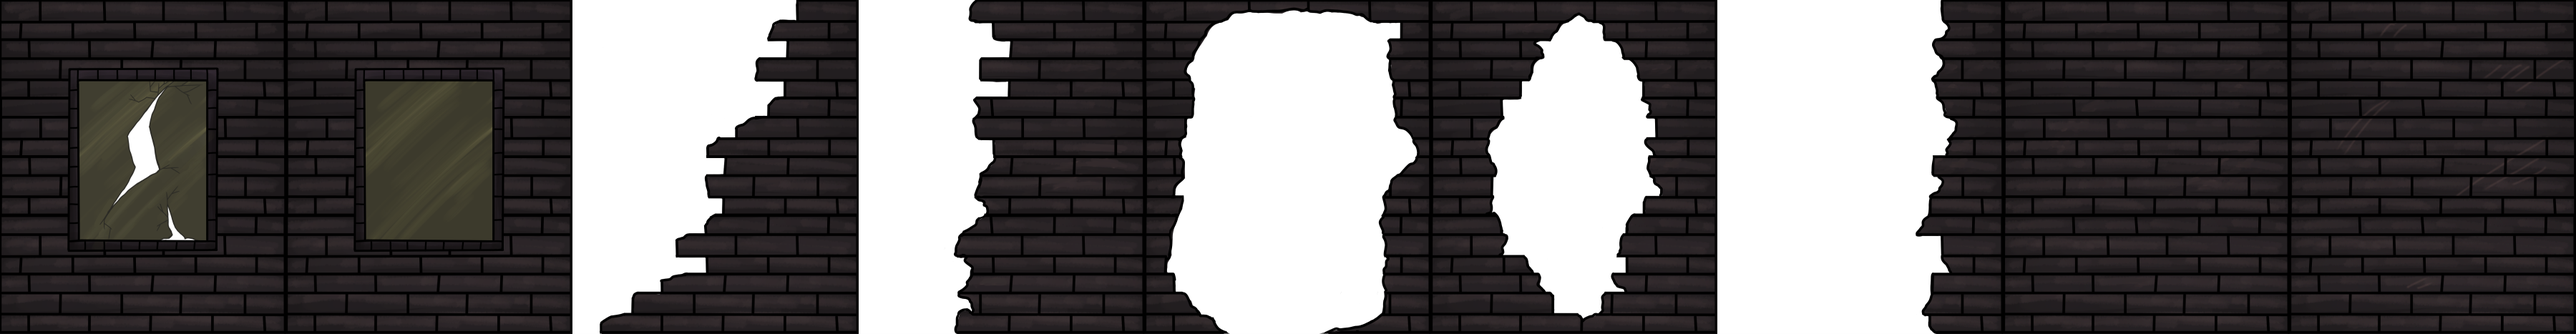
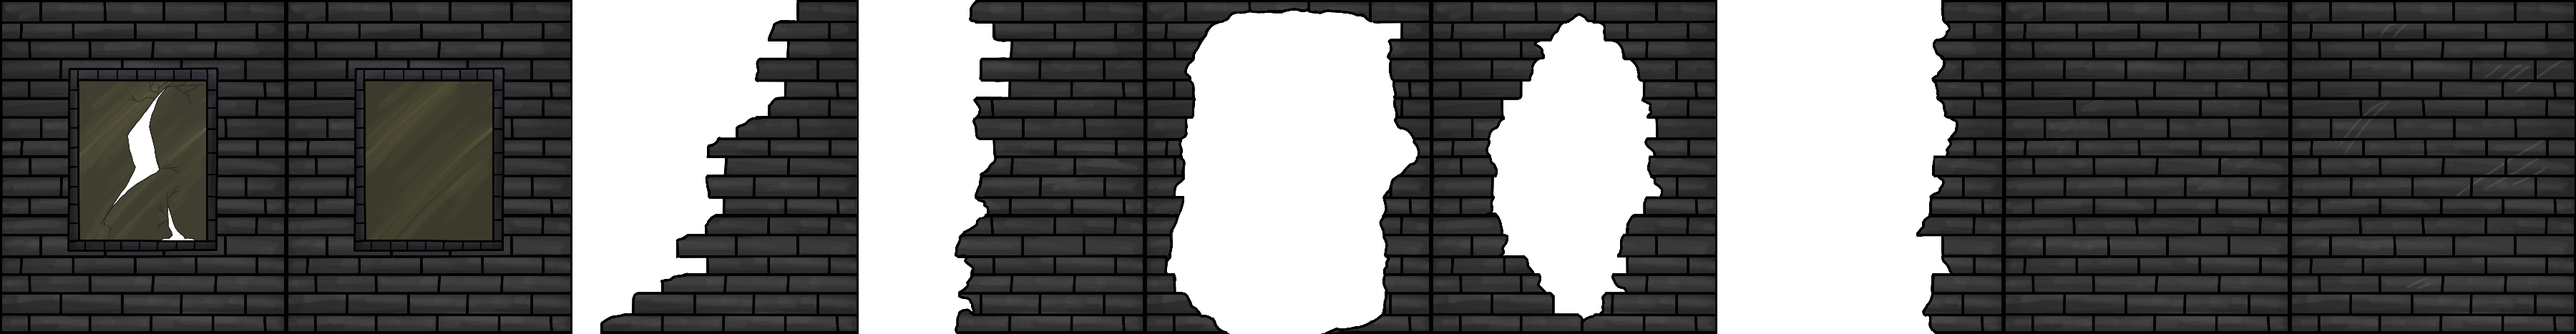
Added backgrounds for each level.

diff --git a/src/managers/BackgroundManager.java b/src/managers/BackgroundManager.java
@@ -42,17 +42,137 @@ public class BackgroundManager extends Manager{
     public void switchLevel(int level, Spawner spawner, Matrix3x3f viewport){
         getSprites().clear();
         getSprites().add(new Background(0, 0, new Vector2f(1,1), skyboxSpriteSheet));
+        //you can line up background walls horizontally by having a 2.37 distance between their x positions
+        /*
+                 getSprites().add(new BackgroundWall(7, -3, new Vector2f(.55f,.6f), bgWallSprites[BgWallType.WALL.getIndex()]));
+                 getSprites().add(new BackgroundWall(4.63f, -3, new Vector2f(.55f,.6f), bgWallSprites[BgWallType.WALL.getIndex()]));
+                 getSprites().add(new BackgroundWall(2.26f, -3, new Vector2f(.55f,.6f), bgWallSprites[BgWallType.WALL.getIndex()]));
+                 getSprites().add(new BackgroundWall(-.11f, -3, new Vector2f(.55f,.6f), bgWallSprites[BgWallType.WALL.getIndex()]));
+                 getSprites().add(new BackgroundWall(-2.48f, -3, new Vector2f(.55f,.6f), bgWallSprites[BgWallType.WALL.getIndex()]));
+                 getSprites().add(new BackgroundWall(-4.85f, -3, new Vector2f(.55f,.6f), bgWallSprites[BgWallType.WALL.getIndex()]));
+                 getSprites().add(new BackgroundWall(-7.22f, -3, new Vector2f(.55f,.6f), bgWallSprites[BgWallType.WALL.getIndex()]));
+                 */
         switch(level){
             case 1:
-                 getSprites().add(new BackgroundWall(7, -3, new Vector2f(.5f,.57f), bgWallSprites[BgWallType.WALL.getIndex()]));
+                //first story
+                 getSprites().add(new BackgroundWall(7, -3, new Vector2f(.55f,.6f), bgWallSprites[BgWallType.WALL.getIndex()]));
+                 getSprites().add(new BackgroundWall(4.63f, -3, new Vector2f(.55f,.6f), bgWallSprites[BgWallType.SCRATCHED.getIndex()]));
+                 getSprites().add(new BackgroundWall(2.26f, -3, new Vector2f(.55f,.6f), bgWallSprites[BgWallType.LITTLEHOLE.getIndex()]));
+                 getSprites().add(new BackgroundWall(-.11f, -3, new Vector2f(.55f,.6f), bgWallSprites[BgWallType.WINDOW.getIndex()]));
+                 getSprites().add(new BackgroundWall(-2.48f, -3, new Vector2f(.55f,.6f), bgWallSprites[BgWallType.SMALLSEGMENT.getIndex()]));
+                 getSprites().add(new BackgroundWall(-6.7f, -3, new Vector2f(-.55f,.6f), bgWallSprites[BgWallType.DIAGONAL.getIndex()]));
+
+                 //second story
+                 getSprites().add(new BackgroundWall(7, 0, new Vector2f(.55f,.6f), bgWallSprites[BgWallType.SCRATCHED.getIndex()]));
+                 getSprites().add(new BackgroundWall(4.63f, 0, new Vector2f(.55f,.6f), bgWallSprites[BgWallType.SCRATCHED.getIndex()]));
+                 getSprites().add(new BackgroundWall(2.26f, 0, new Vector2f(.55f,.6f), bgWallSprites[BgWallType.SMALLSEGMENT.getIndex()]));
+                 getSprites().add(new BackgroundWall(-1.5f, 0, new Vector2f(.55f,.6f), bgWallSprites[BgWallType.SMALLSEGMENT.getIndex()]));
+                 getSprites().add(new BackgroundWall(.75f, 0, new Vector2f(-.55f,.6f), bgWallSprites[BgWallType.DIAGONAL.getIndex()]));
+                 
+                 //third story
+                 getSprites().add(new BackgroundWall(7, 3, new Vector2f(.55f,.6f), bgWallSprites[BgWallType.SCRATCHED.getIndex()]));
+                 getSprites().add(new BackgroundWall(4.63f, 3, new Vector2f(.55f,.6f), bgWallSprites[BgWallType.DIAGONAL.getIndex()]));
+
                 break;
             case 2:
-                
-                
+                //first story
+                 getSprites().add(new BackgroundWall(4.5f, -3, new Vector2f(.55f,.6f), bgWallSprites[BgWallType.SCRATCHED.getIndex()]));
+                 getSprites().add(new BackgroundWall(6.63f, -3, new Vector2f(-.55f,.6f), bgWallSprites[BgWallType.DIAGONAL.getIndex()]));
+                 getSprites().add(new BackgroundWall(2.26f, -3, new Vector2f(.55f,.6f), bgWallSprites[BgWallType.WALL.getIndex()]));
+                 getSprites().add(new BackgroundWall(-.11f, -3, new Vector2f(.55f,.6f), bgWallSprites[BgWallType.LITTLEHOLE.getIndex()]));
+                 getSprites().add(new BackgroundWall(-2.48f, -3, new Vector2f(.55f,.6f), bgWallSprites[BgWallType.SCRATCHED.getIndex()]));
+                 getSprites().add(new BackgroundWall(-4.85f, -3, new Vector2f(.55f,.6f), bgWallSprites[BgWallType.SCRATCHED.getIndex()]));
+                 getSprites().add(new BackgroundWall(-7.22f, -3, new Vector2f(.55f,.6f), bgWallSprites[BgWallType.SMALLSEGMENT.getIndex()]));
+                 
+                 //second story
+                 getSprites().add(new BackgroundWall(4.63f, 0, new Vector2f(-.55f,.6f), bgWallSprites[BgWallType.DIAGONAL.getIndex()]));
+                 getSprites().add(new BackgroundWall(2.26f, 0, new Vector2f(.55f,.6f), bgWallSprites[BgWallType.SMALLSEGMENT.getIndex()]));
+                 getSprites().add(new BackgroundWall(-.11f, 0, new Vector2f(.55f,.6f), bgWallSprites[BgWallType.SCRATCHED.getIndex()]));
+                 getSprites().add(new BackgroundWall(-2.48f, 0, new Vector2f(.55f,.6f), bgWallSprites[BgWallType.WINDOWCRACKED.getIndex()]));
+                 getSprites().add(new BackgroundWall(-4.85f, 0, new Vector2f(.55f,.6f), bgWallSprites[BgWallType.BIGHOLE.getIndex()]));
+                 getSprites().add(new BackgroundWall(-7.22f, 0, new Vector2f(.55f,.6f), bgWallSprites[BgWallType.WALL.getIndex()]));
+                 
+                 //third story
+                 getSprites().add(new BackgroundWall(-.11f, 3, new Vector2f(-.55f,.6f), bgWallSprites[BgWallType.DIAGONAL.getIndex()]));
+                 getSprites().add(new BackgroundWall(-2.48f, 3, new Vector2f(.55f,.6f), bgWallSprites[BgWallType.DIAGONAL.getIndex()]));
+                 getSprites().add(new BackgroundWall(-4.85f, 3, new Vector2f(-.55f,.6f), bgWallSprites[BgWallType.SMALLSEGMENT.getIndex()]));
+                 getSprites().add(new BackgroundWall(-7.22f, 3, new Vector2f(.55f,.6f), bgWallSprites[BgWallType.WALL.getIndex()]));
                 break;
             case 3:
+                //FIRST
+                 getSprites().add(new BackgroundWall(7, -3, new Vector2f(.55f,.6f), bgWallSprites[BgWallType.SCRATCHED.getIndex()]));
+                 getSprites().add(new BackgroundWall(4.63f, -3, new Vector2f(.55f,.6f), bgWallSprites[BgWallType.DIAGONAL.getIndex()]));
+                 getSprites().add(new BackgroundWall(-.11f, -3, new Vector2f(.55f,.6f), bgWallSprites[BgWallType.WALL.getIndex()]));
+                 getSprites().add(new BackgroundWall(-2.48f, -3, new Vector2f(.55f,.6f), bgWallSprites[BgWallType.WINDOW.getIndex()]));
+                 getSprites().add(new BackgroundWall(-4.85f, -3, new Vector2f(.55f,.6f), bgWallSprites[BgWallType.SCRATCHED.getIndex()]));
+                 getSprites().add(new BackgroundWall(-7.22f, -3, new Vector2f(.55f,.6f), bgWallSprites[BgWallType.BIGHOLE.getIndex()]));
+                 
+                //SECOND
+                 getSprites().add(new BackgroundWall(7, 0, new Vector2f(.55f,.6f), bgWallSprites[BgWallType.SCRATCHED.getIndex()]));
+                 getSprites().add(new BackgroundWall(4.63f, 0, new Vector2f(.55f,.6f), bgWallSprites[BgWallType.SMALLSEGMENT.getIndex()]));
+                 getSprites().add(new BackgroundWall(-.11f, 0, new Vector2f(.55f,.6f), bgWallSprites[BgWallType.LITTLEHOLE.getIndex()]));
+                 getSprites().add(new BackgroundWall(-2.48f, 0, new Vector2f(.55f,.6f), bgWallSprites[BgWallType.DIAGONAL.getIndex()]));
+                 getSprites().add(new BackgroundWall(-4.85f, 0, new Vector2f(-.55f,.6f), bgWallSprites[BgWallType.DIAGONAL.getIndex()]));
+                 getSprites().add(new BackgroundWall(-7.22f, 0, new Vector2f(.55f,.6f), bgWallSprites[BgWallType.WALL.getIndex()]));
                 
+                //THIRD
+                 getSprites().add(new BackgroundWall(7, 3, new Vector2f(.55f,.6f), bgWallSprites[BgWallType.DIAGONAL.getIndex()]));
+                 getSprites().add(new BackgroundWall(-.11f, 3, new Vector2f(-.55f,.6f), bgWallSprites[BgWallType.MEDIUM.getIndex()]));
+                 getSprites().add(new BackgroundWall(-2.48f, 3, new Vector2f(.55f,.6f), bgWallSprites[BgWallType.SMALLSEGMENT.getIndex()]));
+                 getSprites().add(new BackgroundWall(-4.85f, 3, new Vector2f(-.55f,.6f), bgWallSprites[BgWallType.SMALLSEGMENT.getIndex()]));
+                 getSprites().add(new BackgroundWall(-7.22f, 3, new Vector2f(.55f,.6f), bgWallSprites[BgWallType.WINDOWCRACKED.getIndex()]));
                 break;
+                
+            case 4:
+                //FIRST
+                 
+                 getSprites().add(new BackgroundWall(2.26f, -3, new Vector2f(.55f,.6f), bgWallSprites[BgWallType.SCRATCHED.getIndex()]));
+                 getSprites().add(new BackgroundWall(-.11f, -3, new Vector2f(.55f,.6f), bgWallSprites[BgWallType.WINDOW.getIndex()]));
+                 getSprites().add(new BackgroundWall(-2.48f, -3, new Vector2f(.55f,.6f), bgWallSprites[BgWallType.BIGHOLE.getIndex()]));
+                 getSprites().add(new BackgroundWall(-4.85f, -3, new Vector2f(.55f,.6f), bgWallSprites[BgWallType.SMALLSEGMENT.getIndex()]));
+                
+                 
+                //SECOND
+                 getSprites().add(new BackgroundWall(7, 0, new Vector2f(.55f,.6f), bgWallSprites[BgWallType.DIAGONAL.getIndex()]));
+                 getSprites().add(new BackgroundWall(2.26f, 0, new Vector2f(-.55f,.6f), bgWallSprites[BgWallType.DIAGONAL.getIndex()]));
+                 getSprites().add(new BackgroundWall(-.11f, 0, new Vector2f(.55f,.6f), bgWallSprites[BgWallType.SCRATCHED.getIndex()]));
+                 getSprites().add(new BackgroundWall(-2.48f, 0, new Vector2f(.55f,.6f), bgWallSprites[BgWallType.LITTLEHOLE.getIndex()]));
+                 getSprites().add(new BackgroundWall(-4.85f, 0, new Vector2f(.55f,-.6f), bgWallSprites[BgWallType.DIAGONAL.getIndex()]));
+                 
+                //THIRD
+                 getSprites().add(new BackgroundWall(2.26f, 3, new Vector2f(-.55f,-.6f), bgWallSprites[BgWallType.DIAGONAL.getIndex()]));
+                 getSprites().add(new BackgroundWall(-.11f, 3, new Vector2f(.55f,.6f), bgWallSprites[BgWallType.WINDOWCRACKED.getIndex()]));
+                 getSprites().add(new BackgroundWall(-2.48f, 3, new Vector2f(.55f,.6f), bgWallSprites[BgWallType.WALL.getIndex()]));
+                 getSprites().add(new BackgroundWall(-4.85f, 3, new Vector2f(.55f,.6f), bgWallSprites[BgWallType.MEDIUM.getIndex()]));
+                break;
+            case 5:
+                //FIRST
+                 getSprites().add(new BackgroundWall(7, -3, new Vector2f(.55f,.6f), bgWallSprites[BgWallType.WALL.getIndex()]));
+                 getSprites().add(new BackgroundWall(4.63f, -3, new Vector2f(.55f,.6f), bgWallSprites[BgWallType.WALL.getIndex()]));
+                 getSprites().add(new BackgroundWall(2.26f, -3, new Vector2f(.55f,.6f), bgWallSprites[BgWallType.WALL.getIndex()]));
+                 getSprites().add(new BackgroundWall(-.11f, -3, new Vector2f(.55f,.6f), bgWallSprites[BgWallType.WALL.getIndex()]));
+                 getSprites().add(new BackgroundWall(-2.48f, -3, new Vector2f(.55f,.6f), bgWallSprites[BgWallType.WALL.getIndex()]));
+                 getSprites().add(new BackgroundWall(-4.85f, -3, new Vector2f(.55f,.6f), bgWallSprites[BgWallType.WALL.getIndex()]));
+                 getSprites().add(new BackgroundWall(-7.22f, -3, new Vector2f(.55f,.6f), bgWallSprites[BgWallType.WALL.getIndex()]));
+                 
+                //SECOND
+                 getSprites().add(new BackgroundWall(7, 0, new Vector2f(.55f,.6f), bgWallSprites[BgWallType.WALL.getIndex()]));
+                 getSprites().add(new BackgroundWall(4.63f, 0, new Vector2f(.55f,.6f), bgWallSprites[BgWallType.WALL.getIndex()]));
+                 getSprites().add(new BackgroundWall(2.26f, 0, new Vector2f(.55f,.6f), bgWallSprites[BgWallType.WALL.getIndex()]));
+                 getSprites().add(new BackgroundWall(-.11f, 0, new Vector2f(.55f,.6f), bgWallSprites[BgWallType.WALL.getIndex()]));
+                 getSprites().add(new BackgroundWall(-2.48f, 0, new Vector2f(.55f,.6f), bgWallSprites[BgWallType.WALL.getIndex()]));
+                 getSprites().add(new BackgroundWall(-4.85f, 0, new Vector2f(.55f,.6f), bgWallSprites[BgWallType.WALL.getIndex()]));
+                 getSprites().add(new BackgroundWall(-7.22f, 0, new Vector2f(.55f,.6f), bgWallSprites[BgWallType.WALL.getIndex()]));
+                
+                //THIRD
+                 getSprites().add(new BackgroundWall(7, 3, new Vector2f(.55f,.6f), bgWallSprites[BgWallType.WALL.getIndex()]));
+                 getSprites().add(new BackgroundWall(4.63f, 3, new Vector2f(.55f,.6f), bgWallSprites[BgWallType.WALL.getIndex()]));
+                 getSprites().add(new BackgroundWall(2.26f, 3, new Vector2f(.55f,.6f), bgWallSprites[BgWallType.WALL.getIndex()]));
+                 getSprites().add(new BackgroundWall(-.11f, 3, new Vector2f(.55f,.6f), bgWallSprites[BgWallType.WALL.getIndex()]));
+                 getSprites().add(new BackgroundWall(-2.48f, 3, new Vector2f(.55f,.6f), bgWallSprites[BgWallType.WALL.getIndex()]));
+                 getSprites().add(new BackgroundWall(-4.85f, 3, new Vector2f(.55f,.6f), bgWallSprites[BgWallType.WALL.getIndex()]));
+                 getSprites().add(new BackgroundWall(-7.22f, 3, new Vector2f(.55f,.6f), bgWallSprites[BgWallType.WALL.getIndex()]));
+                 break; 
         }
     }
 }
